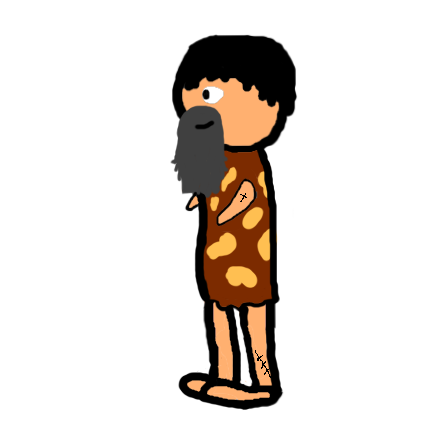
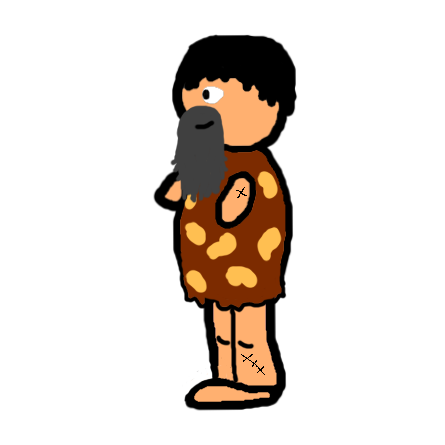
Add files via upload

Changed region(s): [[0.3213, 0.3213, 0.6719, 0.7011], [0.3798, 0.6719, 0.6427, 0.9348]]

diff --git a/Őskor/oskor.html b/Őskor/oskor.html
@@ -1,6 +1,3 @@
-
-
-
 <!DOCTYPE html>
 <html lang="en">
 
@@ -83,9 +80,12 @@
     secretCode = secretCode.toString();
     let szef = document.getElementById("szef")
     let megjelelotValasz;
+    let eltaltvalasz = [];
     let randomFeladat = [];
+    let hus = [];
     let y = 0
     let x = 0
+    let zsiga = 0
 
     for (let i = 0; i < 5; i++) {
         feladatok = feladatok.sort(() => Math.random() - 0.5);
@@ -160,17 +160,32 @@
             let jeloltValasz = document.getElementById("kijelolt")
             if(jeloltValasz.innerHTML == (randomFeladat[kerdessorszam]).jovalasz){
                 Felfordít(x)
+                eltaltvalasz[kerdessorszam] = true;
             }
         }else if((randomFeladat[kerdessorszam]).tipus == 2){
             if(document.getElementById("evszam").value == (randomFeladat[kerdessorszam]).valasz){
                 Felfordít(x)
+                eltaltvalasz[kerdessorszam] = true;
             }
         }
         
     }
+    function Eves(z){
+        if(hus[z] != true){
+            zsiga++;
+            emberke.style.backgroundImage = "url('ősZsiga/elol"+zsiga+".png')";
+            if(zsiga >= 3){
+                zsiga = 3
+            }
+            document.getElementById("comb"+z).style.background = "url('csont.png')"
+            hus[z] = true
+        }else{
+            alert("Ezt a húst már megetted!")
+        }
+    }
     //Kövek felfordítása
     function Felfordít(asd) {
-        document.getElementById("forditos" + asd).innerHTML = "<div class='hús'></div>";
+        document.getElementById("forditos" + asd).innerHTML = "<div id='comb"+asd+"' class='hús'></div>";
     }
     //Karakter mozgastása
     function Mozgás(event) {
@@ -182,25 +197,40 @@
         }
         //A kő1 helye
         if (samy <= 0 && samy >= -10 && samx <= 25 && samx >= 5 && billentyu == "e") {
+           if(eltaltvalasz[1] == true){
+               Eves(1)
+           }else{
             Kerdes(1)
-            
+           }
         }
         //A kő2 helye
         if (samy <= 40 && samy >= 25 && samx <= -35 && samx >= -50 && billentyu == "e") {
+            if(eltaltvalasz[2] == true){
+               Eves(2)
+           }else{
             Kerdes(2)
+           }
         }
         //A kő2 helye
         if (samy <= 25 && samy >= 10 && samx <= -20 && samx >= -35 && billentyu == "e") {
+            if(eltaltvalasz[3] == true){
+               Eves(3)
+           }else{
             Kerdes(3)
+           }
         }
         //A kő2 helye
         if (samy <= -25 && samy >= -40 && samx <= 20 && samx >= 0 && billentyu == "e") {
+            if(eltaltvalasz[4] == true){
+               Eves(4)
+           }else{
             Kerdes(4)
+           }
         }
         //Mozgás
         switch (billentyu) {
             case "w":
-                emberke.style.backgroundImage = "url('ősZsiga/hatul1.png')";
+                emberke.style.backgroundImage = "url('ősZsiga/hatul"+zsiga+".png')";
                 samx -= 5;
                 if (samx <= - 50) {
                     samx = -50;
@@ -212,7 +242,7 @@
                 }
                 break;
             case "s":
-                emberke.style.backgroundImage = "url('ősZsiga/elol1.png')";
+                emberke.style.backgroundImage = "url('ősZsiga/elol"+zsiga+".png')";
                 samx += 5;
                 if (samx >= 30) {
                     samx = 30;
@@ -224,7 +254,7 @@
                 }
                 break;
             case "d":
-                emberke.style.backgroundImage = "url('ősZsiga/jobb1.png')";
+                emberke.style.backgroundImage = "url('ősZsiga/jobb"+zsiga+".png')";
                 samy += 5;
                 if (samy >= 39.5) {
                     samy = 39.5;
@@ -236,7 +266,7 @@
                 }
                 break;
             case "a":
-                emberke.style.backgroundImage = "url('ősZsiga/bal1.png')";
+                emberke.style.backgroundImage = "url('ősZsiga/bal"+zsiga+".png')";
                 samy -= 5;
                 if (samy <= - 47.5) {
                     samy = -47.5;
@@ -255,6 +285,4 @@
 
     }
 </script>
-
 </html>
-

diff --git a/Őskor/style.css b/Őskor/style.css
@@ -75,7 +75,7 @@ div p{
     width: 100vw;
     height: 100vh;
     background-color: rgba(116, 116, 116, 0.782);
-    z-index: 2;
+    z-index: 4;
 }
 #exit{
     background-color: gray;
@@ -120,14 +120,14 @@ div p{
     top: 2.25vh;
 }
 #emberke {
-    background-image: url('ősZsiga/elol1.png');
+    background-image: url('ősZsiga/elol0.png');
     background-size: cover;
     width: 300px;
     height: 300px;
     margin: calc(50vw - 125px);
     margin-top: calc(50vh - 125px);
     position: absolute;
-    z-index: 1;
+    z-index: 3;
 }
 #kerdesHatter1, #kerdesHatter2, #kerdesHatter3, #kerdesHatter4{
     display: none;
@@ -137,7 +137,7 @@ div p{
     position: absolute;
     left: 12.5vw;
     top: 25vh;
-    z-index: 2;
+    z-index: 4;
 }
 #kerdes1,#kerdes2,#kerdes3,#kerdes4{
     text-align: center;
@@ -182,4 +182,10 @@ input::-webkit-inner-spin-button {
 }
 #kijelolt{
     background-color: gray;
+}
+.hús{
+    width: 200px;
+    height: 150px;
+    background: url("csirkecomb.png");
+    z-index: 2;
 }
